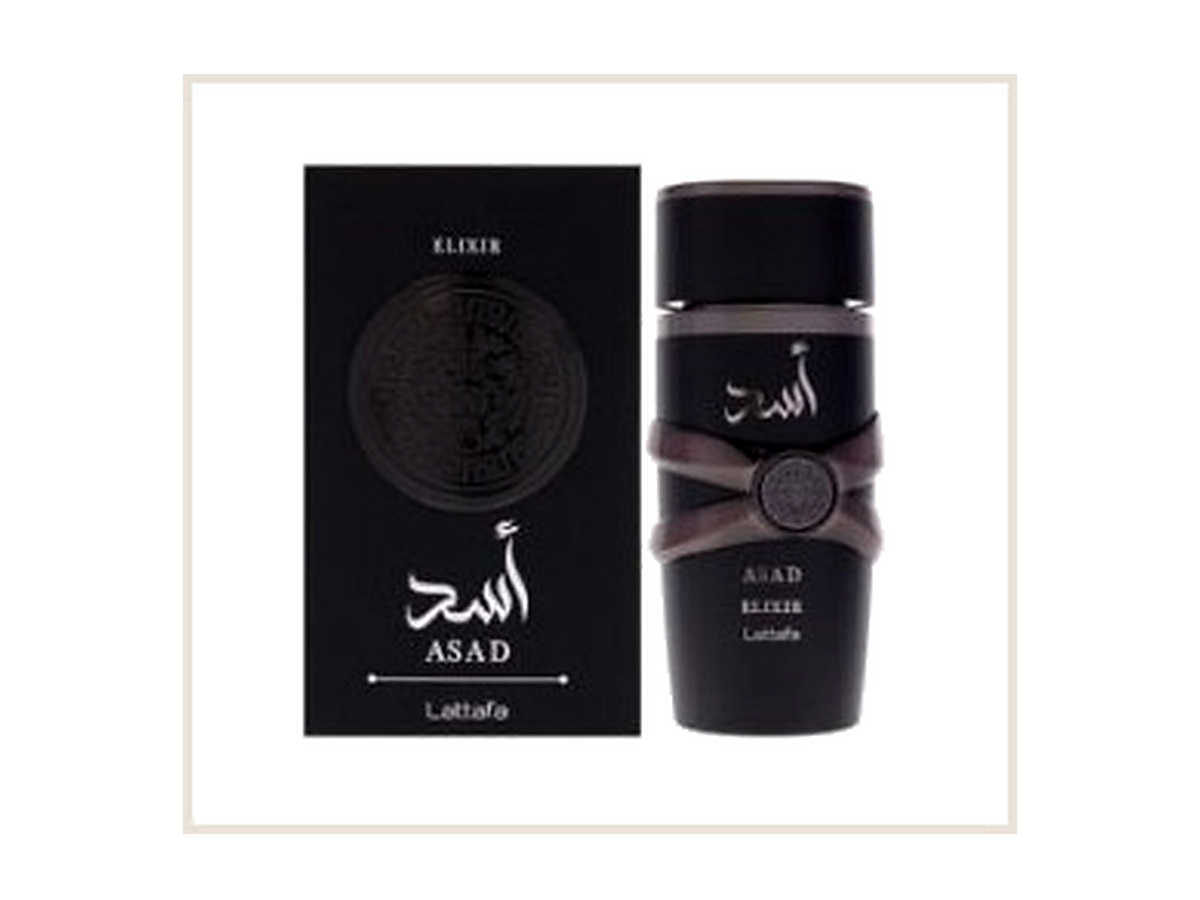
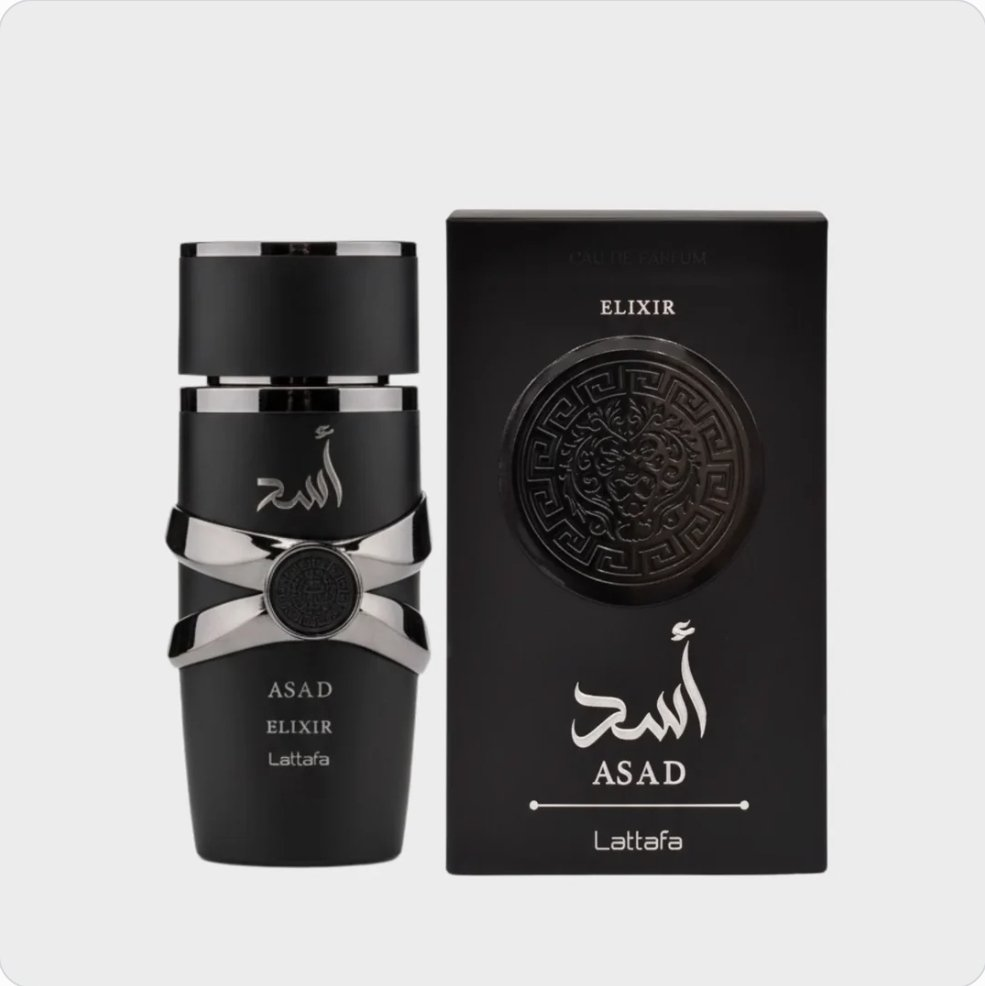
Replace Lattafa Asad Elixir photos with Boss's new shots

diff --git a/index.html b/index.html
@@ -689,7 +689,7 @@
 
       // EDIT THIS ONE LIST to update the shop inventory.
       var productsCatalog = [
-        { name:'Lattafa Asad Elixir Cologne for Men', niche:'Lattafa · Men · 3.4 oz EDP', direction:'Dark spice, lavender and amber woods', description:'Bold and concentrated, with aromatic spice, smooth lavender and a warm amber-wood finish. Widely considered a Dior Sauvage Elixir-style alternative for commanding evening wear.', category:'amber', images:[{src:'assets/product-lattafa-asad-elixir.jpg', alt:'Lattafa Asad Elixir bottle and box — clean packshot'}], price:39, decantPrice:10, originalPrice:45, featured:1, paymentLink:'https://buy.stripe.com/3cI9AV2Qx37K7G2e8Xf7i10' },
+        { name:'Lattafa Asad Elixir Cologne for Men', niche:'Lattafa · Men · 3.4 oz EDP', direction:'Dark spice, lavender and amber woods', description:'Bold and concentrated, with aromatic spice, smooth lavender and a warm amber-wood finish. Widely considered a Dior Sauvage Elixir-style alternative for commanding evening wear.', category:'amber', images:[{src:'assets/product-lattafa-asad-elixir.jpg', alt:'Lattafa Asad Elixir bottle and black box on a clean white background'},{src:'assets/product-lattafa-asad-elixir-2.jpg', alt:'Lattafa Asad Elixir black bottle on a clean white background'},{src:'assets/product-lattafa-asad-elixir-3.jpg', alt:'Lattafa Asad Elixir black presentation box'}], price:39, decantPrice:10, originalPrice:45, featured:1, paymentLink:'https://buy.stripe.com/3cI9AV2Qx37K7G2e8Xf7i10' },
         { name:'Dumont Nitro Intense Cologne for Men', niche:'Dumont · Men · 3.4 oz EDP', direction:'Fruity freshness over smoky woods', description:'A vivid opening of fresh fruit and citrus settles into smoky woods and musk. Energetic up top, darker and more grounded through the drydown.', category:'woody', images:[{src:'assets/product-dumont-nitro-intense.jpg', alt:'Dumont Nitro Intense bottle and box — clean packshot'},{src:'assets/gallery-dumont-nitro-intense-1.jpg', alt:'Dumont Nitro Intense Cologne for Men — customer photo 1'},{src:'assets/gallery-dumont-nitro-intense-2.jpg', alt:'Dumont Nitro Intense Cologne for Men — customer photo 2'}], price:37, decantPrice:9, originalPrice:44, featured:2, paymentLink:'https://buy.stripe.com/dRmeVfdvb4bO1hE6Gvf7i11' },
         { name:'Rasasi Hawas Cologne for Men', niche:'Rasasi · Men · 3.38 oz EDP', direction:'Aquatic citrus with sweet amber', description:'Bright citrus and crisp aquatic freshness meet a lightly sweet amber-musk base. Clean, vibrant and easy to wear from daytime into the evening.', category:'fresh', images:[{src:'assets/product-rasasi-hawas.jpg', alt:'Rasasi Hawas purple bottle and box on a clean white background'},{src:'assets/product-rasasi-hawas-2.jpg', alt:'Rasasi Hawas purple bottle on a clean white background'}], price:45, decantPrice:11, originalPrice:65, featured:3 , paymentLink:'https://buy.stripe.com/7sY28t0IpaAc8K66Gvf7i12'},
         { name:'Jimmy Choo Illicit Flower Perfume for Women', niche:'Jimmy Choo · Women · 3.3 oz EDT', direction:'Sparkling fruit, rose and soft musk', description:'A graceful fruity-floral blend with a bright opening, delicate rose and a smooth musky finish. Polished, feminine and effortless for everyday wear.', category:'fresh', images:[{src:'assets/product-jimmy-choo-illicit-flower.jpg', alt:'Jimmy Choo Illicit Flower bottle close-up on a clean white background'},{src:'assets/product-jimmy-choo-illicit-flower-2.jpg', alt:'Jimmy Choo Illicit Flower bottle angled view on a clean white background'},{src:'assets/product-jimmy-choo-illicit-flower-3.jpg', alt:'Jimmy Choo Illicit Flower bottle with fresh fruit styling'}], price:59, decantPrice:15, originalPrice:79, featured:4 , paymentLink:'https://buy.stripe.com/dRmdRbfDjfUw4tQ9SHf7i15'},
